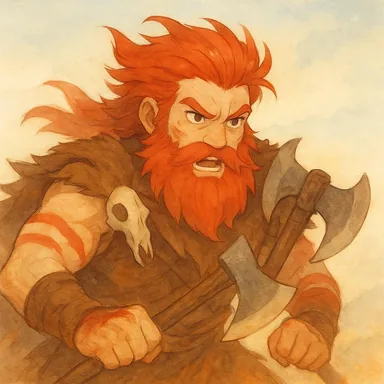
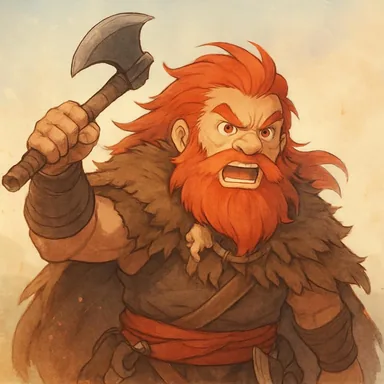
updateing some images

diff --git a/src/content/portraits.ts b/src/content/portraits.ts
@@ -24,7 +24,7 @@ export const PORTRAITS: PortraitDef[] = [
   P('barbarian', 1, 'goliath', 'a massive goliath woman with stone-grey skin, war paint and a greataxe'),
   P('barbarian', 2, 'human', 'a wild-haired human man with a bear-pelt cloak, scars and a roaring expression'),
   P('barbarian', 3, 'orc', 'a scarred orc man with tusks, braids and blood-red war paint'),
-  P('barbarian', 4, 'dwarf', 'a dwarf berserker with a flame-red beard and twin handaxes'),
+  P('barbarian', 4, 'dwarf', 'a dwarf berserker with a flame-red beard, one hand wrapped firmly around the haft of a single raised handaxe, a second handaxe hanging from his belt'),
   P('bard', 1, 'elf', 'a graceful elf man with long silver hair, a lute and an embroidered violet coat'),
   P('bard', 2, 'tiefling', 'a crimson-skinned tiefling woman with ram horns, a feathered cap and a fiddle'),
   P('bard', 3, 'gnome', 'a tiny gnome with wild teal hair, round spectacles and a set of pan-pipes'),
